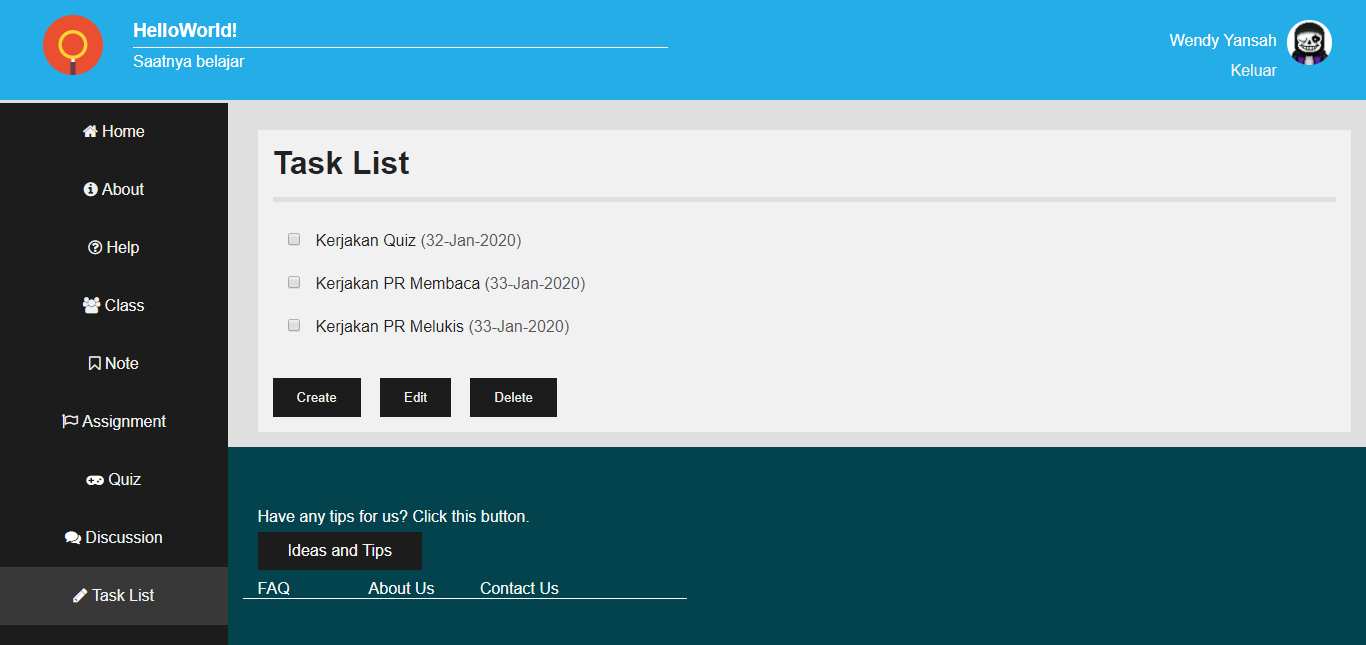
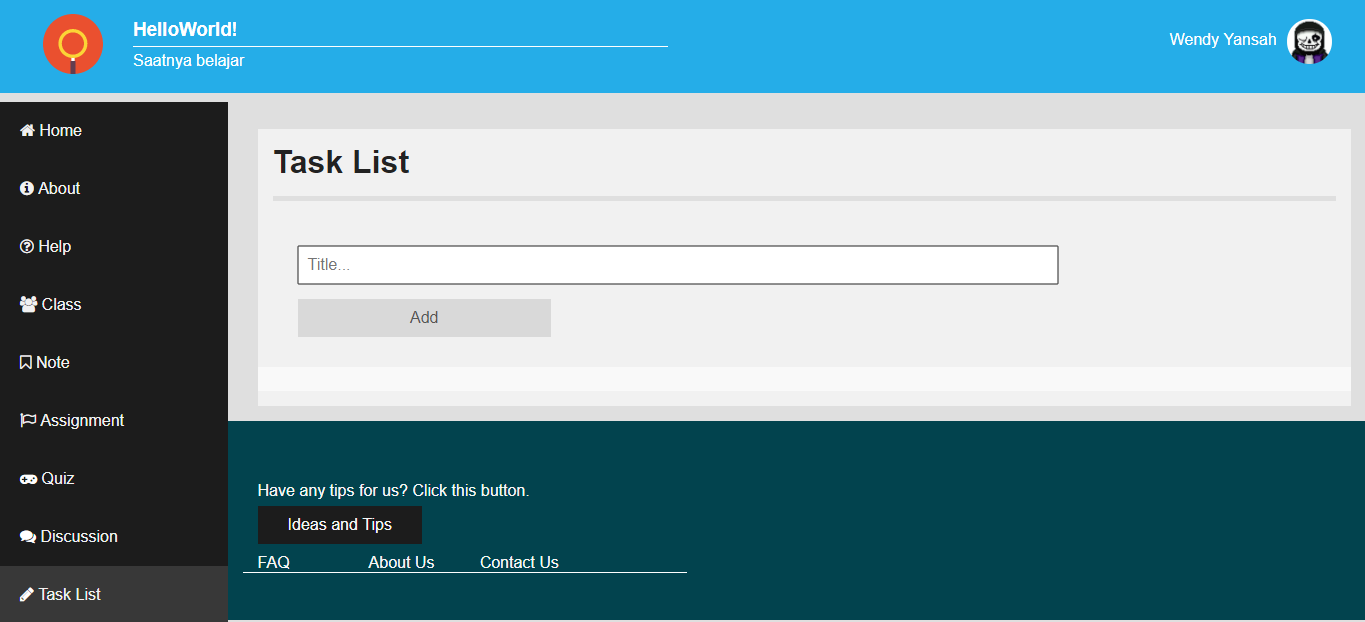
Perbaiki SideBar

diff --git a/css/style.css b/css/style.css
@@ -5,11 +5,11 @@
 body{
 	margin: 0;
 	font-family: "proximanova",sans-serif;
-	background: #dfdfdf;
+	background: rgb(200, 200, 200);
 	color: #222;
 }
 .bg_navbar{
-	background: #25ADE8;
+	background: #166CB5;
 	padding: 15px 20px;
 	color: white;
 	position: fixed;
@@ -95,10 +95,12 @@ body{
 	cursor: pointer;
 	color: #f1f1f1;
 	text-decoration: none;
+	display: none;
 }
 .keluarout:hover {
 	text-decoration: underline;
 	color: #ffa602;
+	display: none;
 }
 .logo img{
 	width: 45px;
@@ -119,7 +121,7 @@ body{
 	padding: 5px 0;
 }
 footer {
-  background: rgb(2, 67, 78);
+  background: #166CB5;
   color: rgb(247, 247, 247);
   margin: 0 -15px;
   padding: 15px 15px;
@@ -145,10 +147,9 @@ footer a {
 	list-style-type: none;
 	color: #F1F1F1;
 	height: 100%;
-    position: fixed;
-    z-index: 1;
-    top: 103px;
-    left: 0;
+  position: fixed;
+  z-index: 1;
+  left: 0;
 }
 .bg_sidebar ul{
 	padding: 0;

diff --git a/assignment_ortu.php b/assignment_ortu.php
@@ -80,7 +80,7 @@
                       </div>
                       <div class="row assignment-content">
                         <div class="col-6">
-                          
+
                         </div>
                         <div class="col-6">
                           <p align="right" style="color: red; font-size: 15px; font-weight: bold; margin: 0;">Tanggal dimulai : 31 Januari 2018, 15.30 PM</p>
@@ -125,10 +125,14 @@
                 <div class="col-7"></div>
               </div>
             </div>
-             </div>   
+             </div>
             </div>
           </div>
       </footer>
   	</div>
+    <script>
+      var headerHeight = document.querySelector(".bg_navbar").offsetHeight;
+      document.querySelector(".bg_sidebar").style = "top:" + headerHeight + "px";
+    </script>
   </body>
 </html>

diff --git a/help.php b/help.php
@@ -118,6 +118,7 @@
 
                             <li>Task List</li>
                             <img src="help/task/task_siswa.PNG" alt="">
+                            <img src="help/task/task_siswa_2.PNG" alt="">
                             <p>Di Task List anda dapat membuat kegiatan-kegiatan apa aja yang akan anda lakukan. Anda juga dapat mengedit Task List, ataupun Menghapus Task Listnya. Serta juga mencentang task list</p>
                           </ol>
                         </div>
@@ -165,5 +166,9 @@
           </div>
       </footer>
   	</div>
+    <script>
+      var headerHeight = document.querySelector(".bg_navbar").offsetHeight;
+      document.querySelector(".bg_sidebar").style = "top:" + headerHeight + "px";
+    </script>
   </body>
 </html>

diff --git a/assignment.php b/assignment.php
@@ -126,10 +126,14 @@
                 <div class="col-7"></div>
               </div>
             </div>
-             </div>   
+             </div>
             </div>
           </div>
       </footer>
   	</div>
+    <script>
+      var headerHeight = document.querySelector(".bg_navbar").offsetHeight;
+      document.querySelector(".bg_sidebar").style = "top:" + headerHeight + "px";
+    </script>
   </body>
 </html>

diff --git a/assignment_guru.php b/assignment_guru.php
@@ -133,10 +133,14 @@
                 <div class="col-7"></div>
               </div>
             </div>
-             </div>   
+             </div>
             </div>
           </div>
       </footer>
   	</div>
+    <script>
+      var headerHeight = document.querySelector(".bg_navbar").offsetHeight;
+      document.querySelector(".bg_sidebar").style = "top:" + headerHeight + "px";
+    </script>
   </body>
 </html>

diff --git a/class.php b/class.php
@@ -189,10 +189,14 @@
                 <div class="col-7"></div>
               </div>
             </div>
-             </div>   
+             </div>
             </div>
           </div>
       </footer>
   	</div>
+    <script>
+      var headerHeight = document.querySelector(".bg_navbar").offsetHeight;
+      document.querySelector(".bg_sidebar").style = "top:" + headerHeight + "px";
+    </script>
   </body>
 </html>

diff --git a/class_ortu.php b/class_ortu.php
@@ -188,10 +188,14 @@
                 <div class="col-7"></div>
               </div>
             </div>
-             </div>   
+             </div>
             </div>
           </div>
       </footer>
   	</div>
+    <script>
+      var headerHeight = document.querySelector(".bg_navbar").offsetHeight;
+      document.querySelector(".bg_sidebar").style = "top:" + headerHeight + "px";
+    </script>
   </body>
 </html>

diff --git a/discussion.php b/discussion.php
@@ -178,10 +178,14 @@
                 <div class="col-7"></div>
               </div>
             </div>
-             </div>   
+             </div>
             </div>
           </div>
       </footer>
   	</div>
+    <script>
+      var headerHeight = document.querySelector(".bg_navbar").offsetHeight;
+      document.querySelector(".bg_sidebar").style = "top:" + headerHeight + "px";
+    </script>
   </body>
 </html>

diff --git a/discussion_ortu.php b/discussion_ortu.php
@@ -178,10 +178,14 @@
                 <div class="col-7"></div>
               </div>
             </div>
-             </div>   
+             </div>
             </div>
           </div>
       </footer>
   	</div>
+    <script>
+      var headerHeight = document.querySelector(".bg_navbar").offsetHeight;
+      document.querySelector(".bg_sidebar").style = "top:" + headerHeight + "px";
+    </script>
   </body>
 </html>

diff --git a/note.php b/note.php
@@ -118,10 +118,14 @@
                 <div class="col-7"></div>
               </div>
             </div>
-             </div>   
+             </div>
             </div>
           </div>
       </footer>
   	</div>
+    <script>
+      var headerHeight = document.querySelector(".bg_navbar").offsetHeight;
+      document.querySelector(".bg_sidebar").style = "top:" + headerHeight + "px";
+    </script>
   </body>
 </html>

diff --git a/note_guru.php b/note_guru.php
@@ -130,10 +130,14 @@
                 <div class="col-7"></div>
               </div>
             </div>
-             </div>   
+             </div>
             </div>
           </div>
       </footer>
   	</div>
+    <script>
+      var headerHeight = document.querySelector(".bg_navbar").offsetHeight;
+      document.querySelector(".bg_sidebar").style = "top:" + headerHeight + "px";
+    </script>
   </body>
 </html>

diff --git a/note_ortu.php b/note_ortu.php
@@ -118,10 +118,14 @@
                 <div class="col-7"></div>
               </div>
             </div>
-             </div>   
+             </div>
             </div>
           </div>
       </footer>
   	</div>
+    <script>
+      var headerHeight = document.querySelector(".bg_navbar").offsetHeight;
+      document.querySelector(".bg_sidebar").style = "top:" + headerHeight + "px";
+    </script>
   </body>
 </html>
